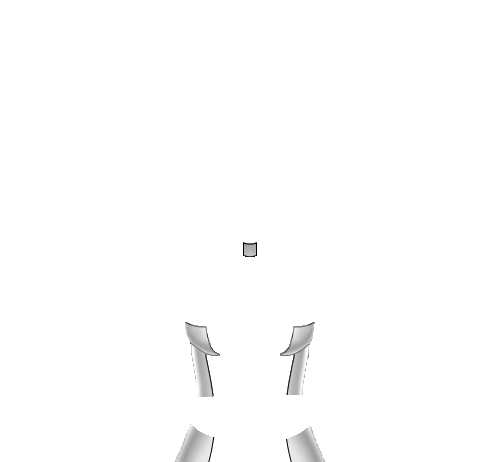
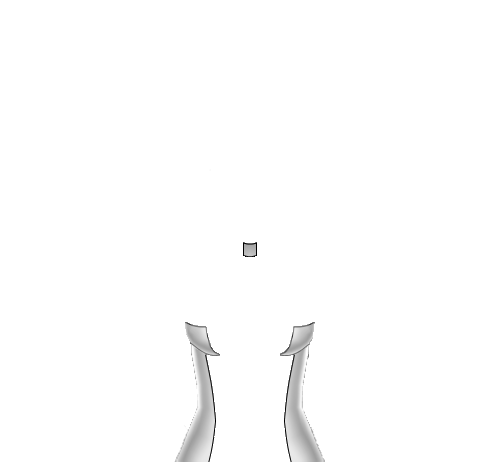
Added pilot suit fixes

Changed region(s): [[0.57, 0.8485, 0.63, 0.9697], [0.39, 0.8485, 0.45, 0.9394]]

diff --git a/BondageClub/Assets/Female3DCG/Female3DCG.js b/BondageClub/Assets/Female3DCG/Female3DCG.js
@@ -232,7 +232,7 @@ var AssetFemale3DCG = [
 				]
 			},
 			{ Name: "SeamlessCatsuit", Fetish: ["Latex"], Value: -1, BuyGroup: "Catsuit", Hide: ["ItemNipplesPiercings"], HideItem: ["ItemNipplesChopStickNippleClamps"], Expose: ["ItemNipples", "ItemBreast", "ItemNipplesPiercings"] },
-			{ Name: "PilotSuit", Fetish: ["Latex"], Value: 150, BuyGroup: "PilotSuit", DefaultColor: ["#3270C1", "#2B408B", "#969696", "#2B408B", "#282828"], Hide: ["ItemNipplesPiercings", "ItemVulva", "ItemVulvaPiercings", "ItemButt"], HideItem: ["ItemNipplesChopStickNippleClamps"],
+			{ Name: "PilotSuit", Fetish: ["Latex"], Value: 150, BuyGroup: "PilotSuit", DefaultColor: ["#3270C1", "#2B408B", "#969696", "#2B408B", "#282828"], Hide: ["ItemNipplesPiercings", "ItemVulva", "ItemVulvaPiercings", "ItemButt"], HideItem: ["ItemNipplesChopStickNippleClamps"], Hide: ["BodyUpper"],
 				Layer: [
 					{ Name: "Layer1", AllowColorize: true },
 					{ Name: "Layer2", AllowColorize: true },
@@ -338,8 +338,8 @@ var AssetFemale3DCG = [
 					{ Name: "Zip" }
 				]
 			},
-			{ Name: "SeamlessCatsuit", Fetish: ["Latex"], Value: -1, BuyGroup: "Catsuit", Hide: ["ItemVulvaPiercings"], HideItem: ["SocksPantyhose1"], Expose: ["ItemVulva", "ItemVulvaPiercings", "ItemButt"] },
-			{ Name: "PilotSuit", Fetish: ["Latex"], Value: -1, BuyGroup: "PilotSuit", DefaultColor: ["#3270C1", "#2B408B", "#969696", "#282828"], Hide: ["ItemVulvaPiercings"], HideItem: ["SocksPantyhose1"], Expose: ["ItemVulva", "ItemVulvaPiercings"],
+			{ Name: "SeamlessCatsuit", Fetish: ["Latex"], Value: -1, BuyGroup: "Catsuit", Hide: ["ItemVulvaPiercings"], HideItem: ["SocksPantyhose1"], Expose: ["ItemVulva", "ItemVulvaPiercings", "ItemButt"]},
+			{ Name: "PilotSuit", Fetish: ["Latex"], Value: -1, BuyGroup: "PilotSuit", DefaultColor: ["#3270C1", "#2B408B", "#969696", "#282828"], Hide: ["ItemVulvaPiercings"], HideItem: ["SocksPantyhose1"], Expose: ["ItemVulva", "ItemVulvaPiercings"], Hide: ["BodyLower"],
 				Layer: [
 					{ Name: "Layer1", AllowColorize: true },
 					{ Name: "Layer2", AllowColorize: true },
@@ -2123,7 +2123,7 @@ var AssetFemale3DCG = [
 			{ Name: "PaddedMittens", Fetish: ["ABDL"], Value: 40, Difficulty: 4, SelfBondage: 2, Time: 15, AllowLock: true, DefaultColor: "#bbbbbb", AllowPose: ["OverTheHead", "BackBoxTie", "BackElbowTouch", "BackCuffs", "Yoked", "AllFours"], Effect: ["Block", "Prone"], Extended: true },
 			{ Name: "PawMittens", Fetish: ["ABDL", "Pet"], Value: 50, Difficulty: 4, SelfBondage: 1, Time: 15, AllowLock: true, DefaultColor: "#bbbbbb", AllowPose: ["OverTheHead", "BackBoxTie", "BackElbowTouch", "BackCuffs", "Yoked", "AllFours"], Effect: ["Block", "Prone"], Extended: true },
 			{ Name: "LeatherMittens", Fetish: ["Leather"], Value: 60, Difficulty: 5, SelfBondage: 4, Time: 15, RemoveTime: 5, AllowLock: true, AllowPose: ["OverTheHead", "BackBoxTie", "BackElbowTouch", "BackCuffs", "Yoked", "AllFours"], SetPose: ["TapedHands"], Effect: ["Block", "Prone"] },
-			{ Name: "FuturisticMittens", Fetish: ["Metal"], Category: ["SciFi"], Value: 70, Difficulty: 5, SelfBondage: 0, Time: 5, RemoveTime: 5, Audio: "FuturisticApply", Random: false, AllowLock: true, DefaultColor: ["#93C48C", "#3B7F2C", "Default"], AllowPose: ["OverTheHead", "BackBoxTie", "BackElbowTouch", "BackCuffs", "Yoked", "AllFours", "TapedHands"], Effect: [], AllowEffect: ["Block", "Prone"], SelfUnlock: false, AllowType: ["Gloves"], Extended: true, AlwaysExtend: true,
+			{ Name: "FuturisticMittens", Fetish: ["Metal"], Category: ["SciFi"], Value: 70, Difficulty: 5, SelfBondage: 0, Time: 5, RemoveTime: 5, Audio: "FuturisticApply", Random: false, AllowLock: true, DefaultColor: ["#93C48C", "#3B7F2C", "Default"], AllowPose: ["OverTheHead", "BackBoxTie", "BackElbowTouch", "BackCuffs", "Yoked", "AllFours"], Hide: ["Hands", "Gloves"], Effect: [], AllowEffect: ["Block", "Prone"], SelfUnlock: false, AllowType: ["Gloves"], Extended: true, AlwaysExtend: true,
 			Layer: [
 					{ Name: "Mesh", ParentGroup: null},
 					{ Name: "Display", ParentGroup: null},

diff --git a/BondageClub/Screens/Inventory/ItemHands/FuturisticMittens/FuturisticMittens.js b/BondageClub/Screens/Inventory/ItemHands/FuturisticMittens/FuturisticMittens.js
@@ -3,12 +3,11 @@
 var InventoryItemHandsFuturisticMittensOptions = [
 	{
 		Name: "Mittens",
-		Property: { Type: null, Difficulty: 8, Effect: ["Block", "Prone"], SetPose: ["TapedHands"],},
-		
+		Property: { Type: null, Difficulty: 8, Effect: ["Block", "Prone"]},
 	},
 	{
 		Name: "Gloves",
-		Property: { Type: "Gloves", Difficulty: 0, Effect: [], SetPose: null },
+		Property: { Type: "Gloves", Difficulty: 0, Effect: [] },
 	},
 ];
 
